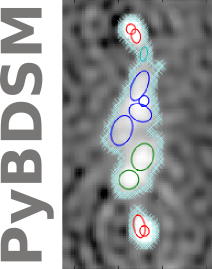
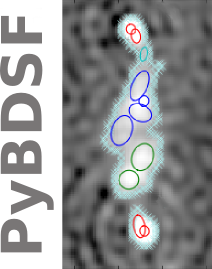
Make name change happen in doc

Changed region(s): [[0.0, 0.0297, 0.2547, 0.9814]]

diff --git a/doc/source/conf.py b/doc/source/conf.py
@@ -1,6 +1,6 @@
 # -*- coding: utf-8 -*-
 #
-# PyBDSM documentation build configuration file, created by
+# PyBDSF documentation build configuration file, created by
 # sphinx-quickstart on Thu Jan 19 13:27:03 2012.
 #
 # This file is execfile()d with the current directory set to its containing dir.
@@ -40,7 +40,7 @@ source_encoding = 'utf-8-sig'
 master_doc = 'index'
 
 # General information about the project.
-project = u'PyBDSM'
+project = u'PyBDSF'
 copyright = u'2016, David Rafferty and Niruj Mohan'
 
 # The version info for the project you're documenting, acts as replacement for
@@ -164,7 +164,7 @@ html_static_path = ['_static']
 #html_file_suffix = None
 
 # Output file base name for HTML help builder.
-htmlhelp_basename = 'PyBDSMdoc'
+htmlhelp_basename = 'PyBDSFdoc'
 
 
 # -- Options for LaTeX output --------------------------------------------------
@@ -183,7 +183,7 @@ latex_elements = {
 # Grouping the document tree into LaTeX files. List of tuples
 # (source start file, target name, title, author, documentclass [howto/manual]).
 latex_documents = [
-  ('index', 'PyBDSM.tex', u'PyBDSM Documentation',
+  ('index', 'PyBDSF.tex', u'PyBDSF Documentation',
    u'David Rafferty and Niruj Mohan', 'manual'),
 ]
 
@@ -213,7 +213,7 @@ latex_documents = [
 # One entry per manual page. List of tuples
 # (source start file, name, description, authors, manual section).
 man_pages = [
-    ('index', 'pybdsm', u'PyBDSM Documentation',
+    ('index', 'pybdsf', u'PyBDSF Documentation',
      [u'David Rafferty and Niruj Mohan'], 1)
 ]
 
@@ -227,8 +227,8 @@ man_pages = [
 # (source start file, target name, title, author,
 #  dir menu entry, description, category)
 texinfo_documents = [
-  ('index', 'PyBDSM', u'PyBDSM Documentation',
-   u'David Rafferty and Niruj Mohan', 'PyBDSM', 'One line description of project.',
+  ('index', 'PyBDSF', u'PyBDSF Documentation',
+   u'David Rafferty and Niruj Mohan', 'PyBDSF', 'One line description of project.',
    'Miscellaneous'),
 ]
 
@@ -245,7 +245,7 @@ texinfo_documents = [
 # -- Options for Epub output ---------------------------------------------------
 
 # Bibliographic Dublin Core info.
-epub_title = u'PyBDSM'
+epub_title = u'PyBDSF'
 epub_author = u'David Rafferty and Niruj Mohan'
 epub_publisher = u'David Rafferty and Niruj Mohan'
 epub_copyright = u'2016, David Rafferty and Niruj Mohan'
